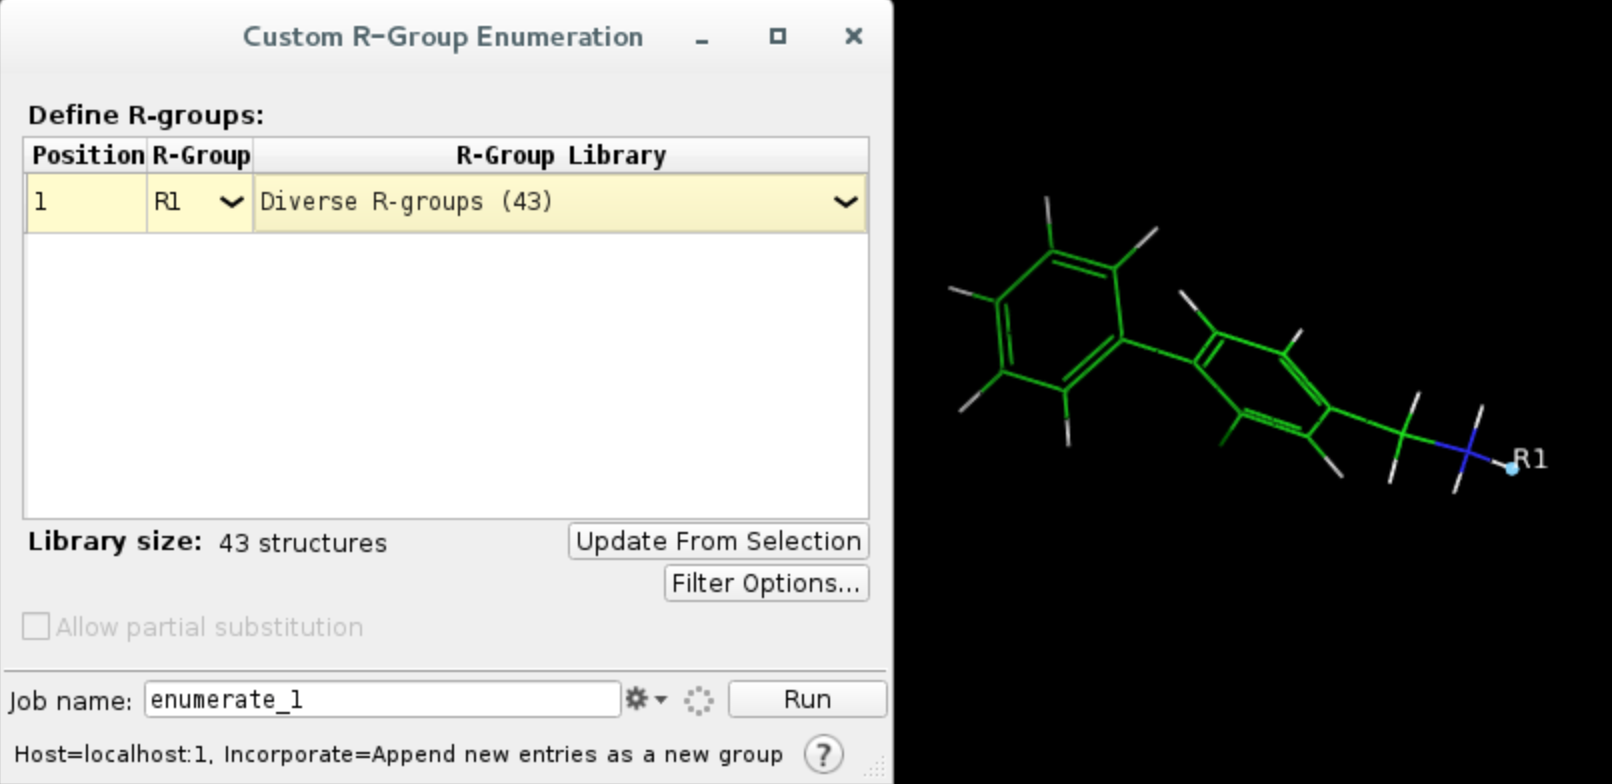
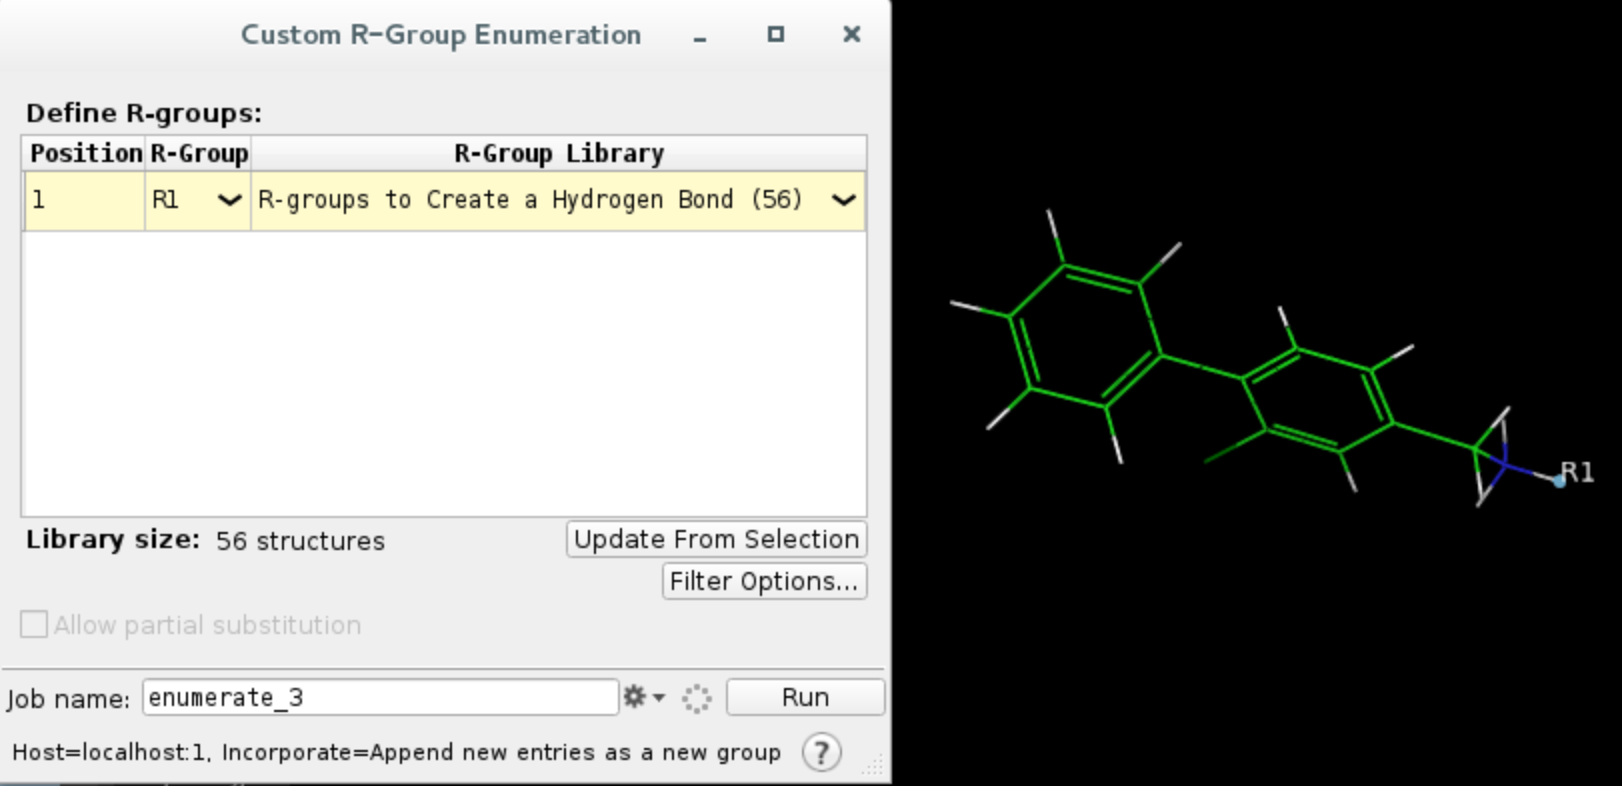
Fragment growing tutorial updates (unfinished)

diff --git a/docs/build_docs/source/tutorials/fragment_growing.rst b/docs/build_docs/source/tutorials/fragment_growing.rst
@@ -78,10 +78,9 @@ selected atoms to new entry``.
 
 b. **Enumerate R-groups**
 
-    - Click on ``Select -> Set pick level -> Atoms`` and select the nitrogen atom, then
     - Click on ``Select -> Set pick level -> Atoms`` and select any of the hydrogen atoms adjacent to nitrogen
     - Click on ``Tasks``, search for ``Enumeration`` and select ``Enumeration > Custom R-Group...``
-    - Choose ``Diverse R-groups`` from the drop down menu and ``Run``
+    - Choose ``R-groups to Create a Hydrogen Bond`` from the drop down menu and ``Run``
 
 .. image:: ../img/fragment_growing_tutorial_2b.png
   :width: 400
@@ -91,9 +90,12 @@ Once the job has finished, you will notice a new group on your entry list called
 
 c. **Prepare ligands**
 
-    - Select all enumerated ligands by clicking on the ``enumerate_1`` group
-    - Click on ``Tasks`` and search for ``LigPrep``
-    - Run LigPrep making sure you use selected structures from the project table and generate at most 2 stereoisomers per ligand (otherwise it will return a lot of structures)
+Select all enumerated ligands by clicking on the ``enumerate_1`` group, then click on ``Tasks`` and search for ``LigPrep``.
+Run LigPrep using the following options (otherwise it will return a lot of structures):
+
+    - use selected structures from the project table
+    - generate at most 2 stereoisomers per ligand
+    - do not change the ionisation state
 
 .. image:: ../img/fragment_growing_tutorial_2c.png
   :width: 400
@@ -107,8 +109,60 @@ Once ligand preparation is finished (it might take a few minutes), select all en
 3. FragPELE input file
 ++++++++++++++++++++++++
 
+Once you have ``scaffold.pdb`` and ``ligands.sdf`` in your working directory, create an input file called ``input.yaml`` with the following flags:
+
+    - **frag_core** - protein-scaffold PDB file
+    - **frag_ligands** - SD file with fully grown ligands
+    - **resname** - residue name of the scaffold (we renamed it to ``LIG`` in step 1d)
+    - **chain_core** - chain ID of the scaffold (``Z`` in our case)
+    - **cpus** - number of CPUs you would like to use for each fragment growing simulation
+
+..  code-block:: yaml
+
+    frag_core: "scaffold.pdb"
+    frag_ligands: "ligands.sdf"
+    resname: "LIG"
+    chain_core: "Z"
+    cpus: 50
+
 4. Launching the simulation
 +++++++++++++++++++++++++++++
 
+You can launch the simulation from your working directory using one of the following methods:
+
+    - **directly** on command line using ``python -m pele_platform.main input.yaml``
+
+    - submit a slurm file to the **queue system** (ask your IT manager, if you are not sure how to do it). In our case, the slurm file is called ``run.sl`` and we can launch it on the command line using ``sbatch slurm.sl``
+
+Example slurm file:
+
+.. code-block:: console
+
+    #!/bin/bash
+    #SBATCH -J PELE
+    #SBATCH --output=mpi_%j.out
+    #SBATCH --error=mpi_%j.err
+    #SBATCH --ntasks=50
+    #SBATCH --mem-per-cpu=1000
+
+    python -m pele_platform.main input.yaml
+
 5. Analysis of the results
 ++++++++++++++++++++++++++++
+
+Once the simulation has finished, your working directory should contain (among other files):
+
+    - a TSV file with scored fragments ``simulation_score.tsv``
+    - a number of fragment folders with seemingly random names, e.g. ``scaffold_processed_scaffold,ligand-designer_form-hbond_10evvpbrpvN1-H6C1-H1``
+
+a. Ranked fragments
+--------------------
+
+Examine ``simulation_score.tsv`` file
+
+b. Best binding poses
+-----------------------
+
+In each fragment folder, you will find a ``top_results`` directory containing PDB files with the best binding poses for that fragment.
+
+

diff --git a/docs/build_docs/source/tutorials/index.rst b/docs/build_docs/source/tutorials/index.rst
@@ -7,7 +7,7 @@ from protein preparation to understanding output files.
 We assume you have already installed the software and have access to Schrödinger Maestro.
 
     - `Pocket exploration of protein tyrosine phosphatase 1B <allosteric.html>`_
-    - `Fragment growing on gefitinib scaffold <fragment_growing.html>`_
+    - `Fragment growing in a novel CK2α binding pocket <fragment_growing.html>`_
 
 
 .. toctree::
